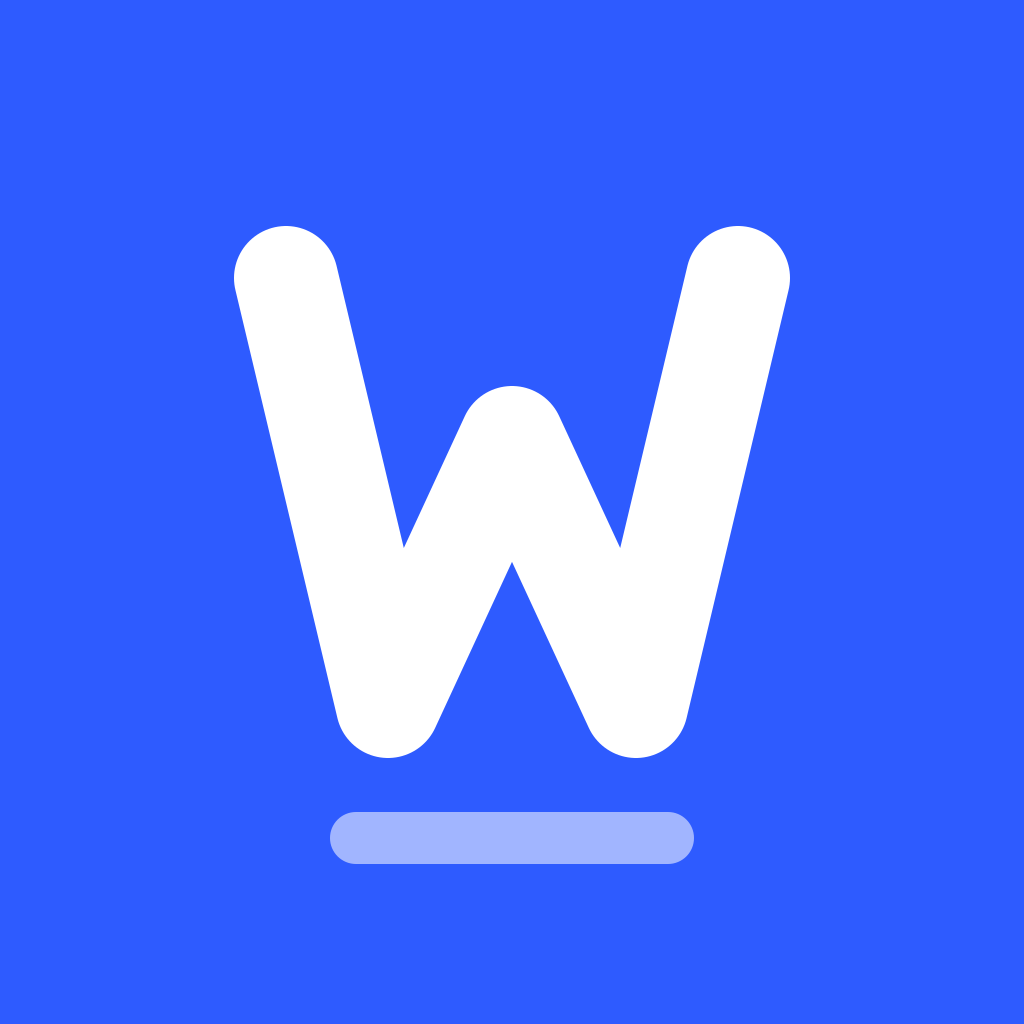
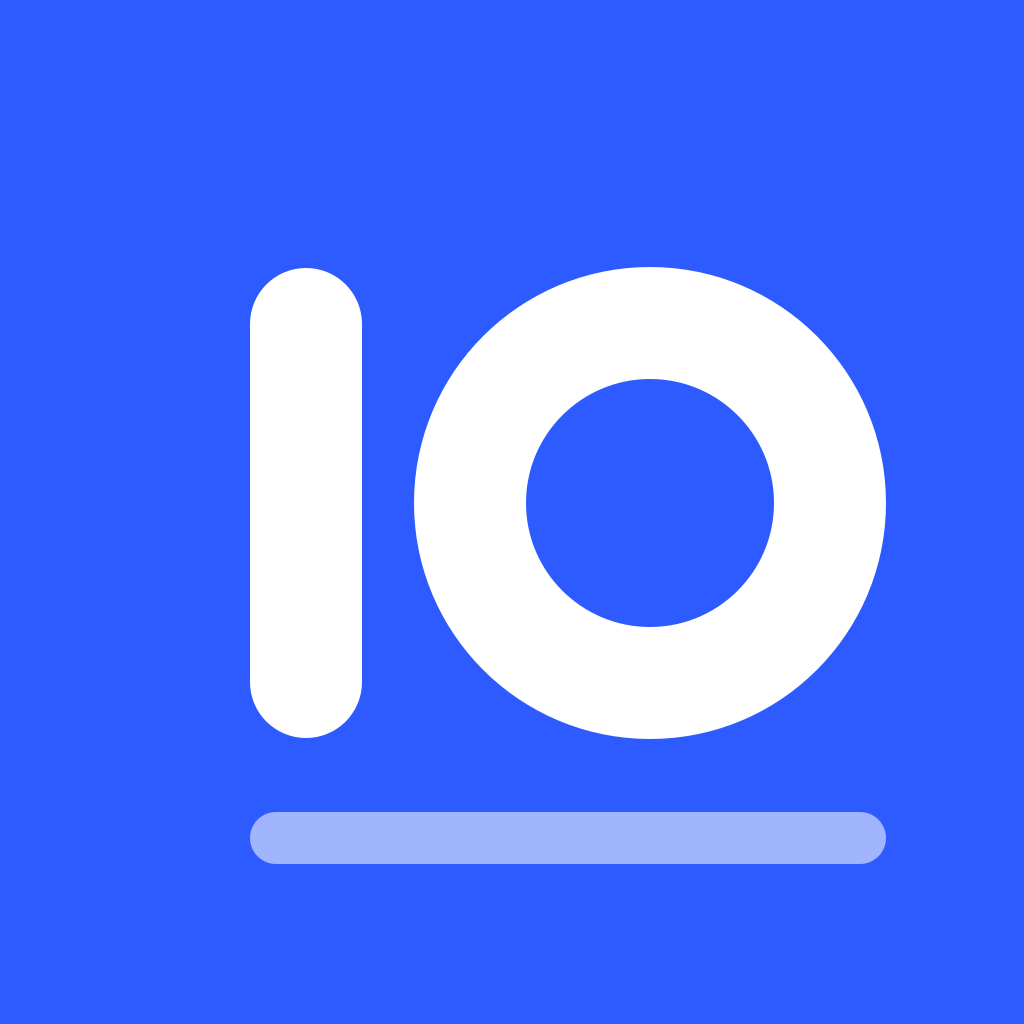
Rename the app from Wordwise to TenWords
Wordwise shares the App Store with fifteen near-identical names, four of
them vocabulary apps, so it can be neither found nor owned. TenWords has no
matches on the store and names the product mechanic: ten words a day.

Only user-facing identity changes: display name, URL scheme, wordmark, and
a new icon drawn as a 10. The bundle identifier stays com.qerberos.wordwise
because App Store Connect will not change it once a build has been
uploaded, and the EAS slug stays wordwise so the existing signing
credentials and build history remain attached.

Changed region(s): [[0.2188, 0.2188, 0.875, 0.75], [0.6562, 0.7812, 0.875, 0.8438], [0.2188, 0.7812, 0.3438, 0.8438]]

diff --git a/app/(tabs)/index.tsx b/app/(tabs)/index.tsx
@@ -3,4 +3,4 @@ import { Pressable, ScrollView, Text, View } from 'react-native';
 import { Card, Button, Screen, colors, s } from '@/ui';
 import { useStore, isDue } from '@/store';
 import { VOCAB } from '@/vocab';
-export default function Home(){ const r=useRouter(); const {stats,streak,startSession,sessionIndex,todayIds}=useStore(); const mastered=VOCAB.filter(w=>(stats[w.id]?.mastery??0)>=85).length; const due=VOCAB.filter(w=>isDue(stats[w.id])).length; const mastery=Math.round(VOCAB.reduce((a,w)=>a+(stats[w.id]?.mastery??0),0)/VOCAB.length); const sessionProgress=todayIds.length?Math.round((Math.min(sessionIndex,todayIds.length)/todayIds.length)*100):0; return <Screen><ScrollView showsVerticalScrollIndicator={false} contentContainerStyle={s.scroll}><View style={s.row}><View><Text style={{fontSize:13,fontWeight:'800',color:colors.blue}}>WORDWISE</Text><Text style={[s.title,{marginTop:8}]}>Today's focus</Text></View><View style={s.pill}><Text style={s.pillText}>🔥 {streak} days</Text></View></View><Text style={[s.subtitle,{marginTop:8}]}>Learn the words that matter most, then practice them in context.</Text><Card style={{marginTop:22}}><View style={s.row}><View><Text style={{fontSize:12,color:colors.muted,fontWeight:'700'}}>TODAY'S GOAL</Text><Text style={{fontSize:28,fontWeight:'800',marginTop:6}}>10 words</Text></View><Text style={{fontSize:30}}>→</Text></View><View style={{height:10,borderRadius:8,backgroundColor:'#ECEEF3',marginTop:18,overflow:'hidden'}}><View style={{height:10,width:`${sessionProgress}%`,backgroundColor:colors.blue}}/></View><Text style={[s.subtitle,{marginTop:8}]}>Personalized from missed words, high-priority words, and review due today.</Text><View style={{marginTop:16}}><Button label="START TODAY'S 10" onPress={()=>{startSession();r.push('/learn')}}/></View></Card><View style={{flexDirection:'row',gap:12,marginTop:14}}><Pressable style={{flex:1}} onPress={()=>r.push('/review')} accessibilityRole="button" accessibilityLabel="Show words that need review"><Card><View style={s.row}><Text style={{fontSize:26}}>🔴</Text><Text style={{fontSize:18,color:colors.muted}}>›</Text></View><Text style={{fontSize:28,fontWeight:'800',marginTop:8}}>{due}</Text><Text style={s.subtitle}>Need review</Text></Card></Pressable><Card style={{flex:1}}><Text style={{fontSize:26}}>⭐</Text><Text style={{fontSize:28,fontWeight:'800',marginTop:8}}>{mastered}</Text><Text style={s.subtitle}>Mastered</Text></Card></View><Card style={{marginTop:14}}><Text style={{fontSize:12,color:colors.muted,fontWeight:'700'}}>YOUR SAT VOCABULARY</Text><Text style={{fontSize:34,fontWeight:'800',marginTop:6}}>{mastery}%</Text><View style={{height:12,borderRadius:8,backgroundColor:'#ECEEF3',marginTop:10,overflow:'hidden'}}><View style={{height:12,width:`${mastery}%`,backgroundColor:colors.green}}/></View><Text style={[s.subtitle,{marginTop:12}]}>The score combines your accuracy and recent practice. It is a personal learning metric, not an official College Board statistic.</Text></Card></ScrollView></Screen> }
+export default function Home(){ const r=useRouter(); const {stats,streak,startSession,sessionIndex,todayIds}=useStore(); const mastered=VOCAB.filter(w=>(stats[w.id]?.mastery??0)>=85).length; const due=VOCAB.filter(w=>isDue(stats[w.id])).length; const mastery=Math.round(VOCAB.reduce((a,w)=>a+(stats[w.id]?.mastery??0),0)/VOCAB.length); const sessionProgress=todayIds.length?Math.round((Math.min(sessionIndex,todayIds.length)/todayIds.length)*100):0; return <Screen><ScrollView showsVerticalScrollIndicator={false} contentContainerStyle={s.scroll}><View style={s.row}><View><Text style={{fontSize:13,fontWeight:'800',color:colors.blue}}>TENWORDS</Text><Text style={[s.title,{marginTop:8}]}>Today's focus</Text></View><View style={s.pill}><Text style={s.pillText}>🔥 {streak} days</Text></View></View><Text style={[s.subtitle,{marginTop:8}]}>Learn the words that matter most, then practice them in context.</Text><Card style={{marginTop:22}}><View style={s.row}><View><Text style={{fontSize:12,color:colors.muted,fontWeight:'700'}}>TODAY'S GOAL</Text><Text style={{fontSize:28,fontWeight:'800',marginTop:6}}>10 words</Text></View><Text style={{fontSize:30}}>→</Text></View><View style={{height:10,borderRadius:8,backgroundColor:'#ECEEF3',marginTop:18,overflow:'hidden'}}><View style={{height:10,width:`${sessionProgress}%`,backgroundColor:colors.blue}}/></View><Text style={[s.subtitle,{marginTop:8}]}>Personalized from missed words, high-priority words, and review due today.</Text><View style={{marginTop:16}}><Button label="START TODAY'S 10" onPress={()=>{startSession();r.push('/learn')}}/></View></Card><View style={{flexDirection:'row',gap:12,marginTop:14}}><Pressable style={{flex:1}} onPress={()=>r.push('/review')} accessibilityRole="button" accessibilityLabel="Show words that need review"><Card><View style={s.row}><Text style={{fontSize:26}}>🔴</Text><Text style={{fontSize:18,color:colors.muted}}>›</Text></View><Text style={{fontSize:28,fontWeight:'800',marginTop:8}}>{due}</Text><Text style={s.subtitle}>Need review</Text></Card></Pressable><Card style={{flex:1}}><Text style={{fontSize:26}}>⭐</Text><Text style={{fontSize:28,fontWeight:'800',marginTop:8}}>{mastered}</Text><Text style={s.subtitle}>Mastered</Text></Card></View><Card style={{marginTop:14}}><Text style={{fontSize:12,color:colors.muted,fontWeight:'700'}}>YOUR SAT VOCABULARY</Text><Text style={{fontSize:34,fontWeight:'800',marginTop:6}}>{mastery}%</Text><View style={{height:12,borderRadius:8,backgroundColor:'#ECEEF3',marginTop:10,overflow:'hidden'}}><View style={{height:12,width:`${mastery}%`,backgroundColor:colors.green}}/></View><Text style={[s.subtitle,{marginTop:12}]}>The score combines your accuracy and recent practice. It is a personal learning metric, not an official College Board statistic.</Text></Card></ScrollView></Screen> }

diff --git a/README.md b/README.md
@@ -1,4 +1,4 @@
-# Wordwise v0.2.4
+# TenWords v0.2.4
 
 A local-first SAT vocabulary coaching prototype based on the supplied project transcript.
 
